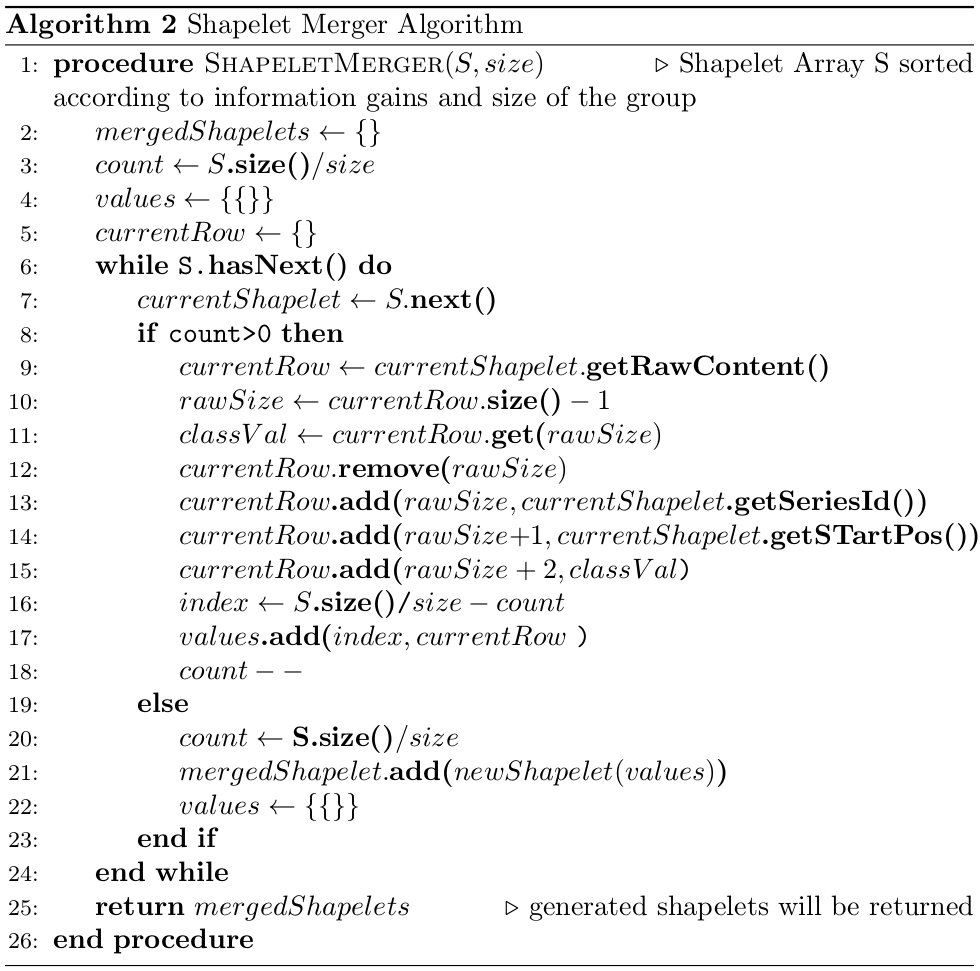
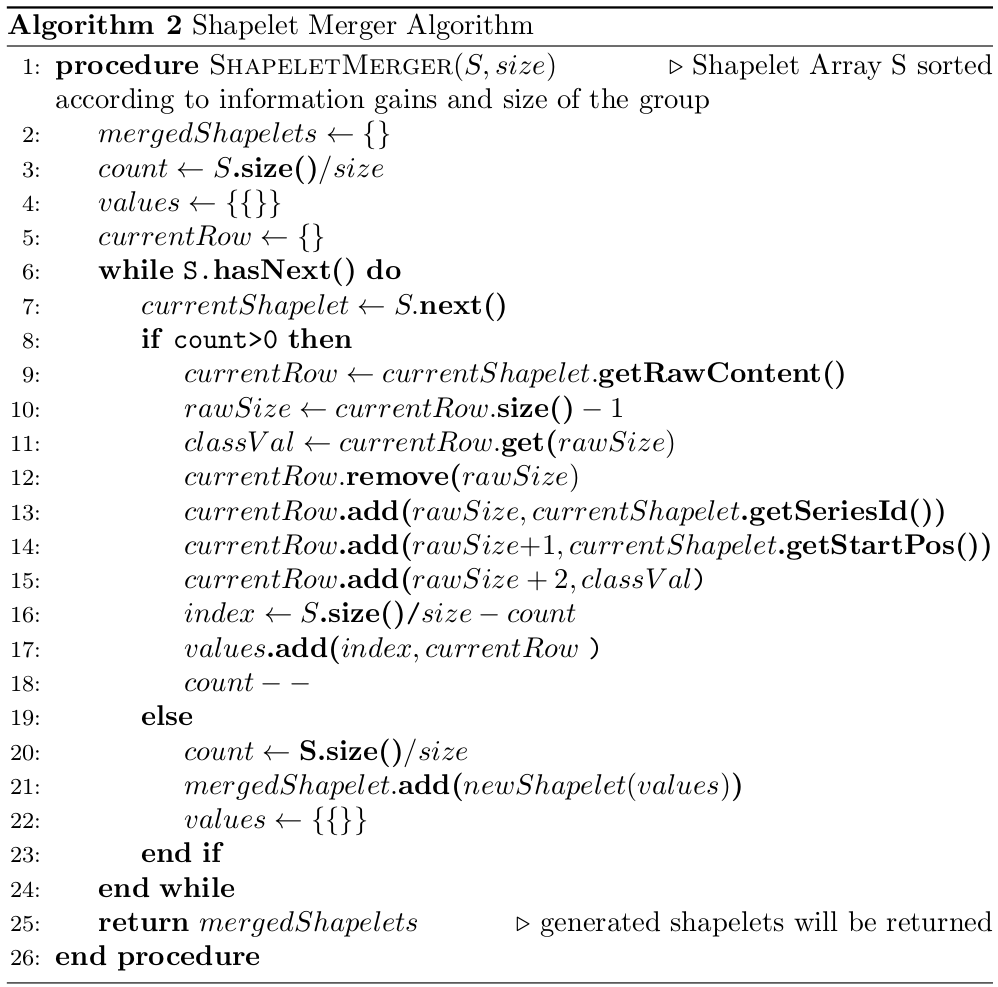
Finalized version

diff --git a/IEEE_SmartData_China_2016/IEEE__Chine_Conf_Paper.tex b/IEEE_SmartData_China_2016/IEEE__Chine_Conf_Paper.tex
@@ -157,7 +157,7 @@ To auto generate queries for Complex Event Processors, we propose the modularize
 
 \textbf{Data Processor} --- Converts the input dataset (e.g., time series data in .txt, .xml, or .csv format) into a generic format used by rest of the modules. We assume that each instance in the given dataset corresponds to an occurrence of a specific event, i.e., each data instance is classified/labeled with the corresponding event. The module then counts the number of events of each type, and their proportions with respect to the total number of events in the entire dataset.
 
-\textbf{Shapelet Generator}	--- This is the core module of the system which uses pattern mining. This module identifies the most appropriate shapelets to represent each event. First, the multivariate time series dataset is mapped to a set of parallel coordinates. Fig.~\ref{fig:tsdata} is an exemplary representation of a multivariate time series with six attributes and six time instances converted to parallel coordinates. Then all the shapelets are extracted from the parallel coordinates while varying the length $l$ of the sliding window. Though the shape of the extracted shapelets depend on the order of the attributes, final outcome of the solution is independent of the order. Length of an identified shapelet is bounded by number of attributes $m$ in the time series (i.e., $1 \leq l \leq m$). Therefore, our technique produces a much lower number of shaplets compared to prior work, where $m$ can be as large as the length of the time series. Moreover, it is not required to apply heuristics or expert knowledge to determine the optimum minimum and maximum length of shapelets. Therefore, our \textit{Shapelet Learner Algorithm} is both computationally and memory efficient.
+\textbf{Shapelet Generator}	--- This is the core module of the system which uses pattern mining. This module identifies the most appropriate shapelets to represent each event. First, the multivariate time series dataset is mapped to a set of parallel coordinates. Fig.~\ref{fig:tsdata} is an exemplary representation of a multivariate time series with six attributes and five time instances converted to parallel coordinates. Then all the shapelets are extracted from the parallel coordinates while varying the length $l$ of the sliding window. Though the shape of the extracted shapelets depend on the order of the attributes, final outcome of the solution is independent of the order. Length of an identified shapelet is bounded by number of attributes $m$ in the time series (i.e., $1 \leq l \leq m$). Therefore, our technique produces a much lower number of shaplets compared to prior work, where $m$ can be as large as the length of the time series. Moreover, it is not required to apply heuristics or expert knowledge to determine the optimum minimum and maximum length of shapelets. Therefore, our \textit{Shapelet Learner Algorithm} is both computationally and memory efficient.
 
 Once all shapelets are extracted, the next step is to identify a subset of the shapelets that are representative of patterns in the parallel coordinates. For this, we use information gain to quantify the extent to which a selected shapelet is similar to a given line on parallel coordinates. For example, Fig.~\ref{fig:tsshapes} shows two shaplets, one with attributes 1 and 2 (shapelet $S_1$) and another with attributes 1, 2, and 3 (shapelet $S_2$). We slide both $S_1$ and $S_2$ across the line/row with $t$ = 5000, and find the minimum distance between the shapelet and line. For example, $S_1$ has a relatively lower distance between the attributes 1-2 and 3-4, whereas $S_2$ has a relatively lower distance between attributes 1-3 and 4-6. This is estimated using the \textit{SubsequenceDist()} function defined in Sec. 2.1. The same process is applied to all other time instances and shapelets. This results in a matrix of minimum distance values for each (shapelet, time instance) pair. We then find the Optimal Splitting Point (OSP) \cite{IEEEexample:TimeSeriesShapelets} for each row of minimum distance values, to find the maximum information gain for each shapelet. The shapelets are then ranked based on the descending order of its information gain. We then use \textit{Shapelet Merger Algorithm} to group shapelets within the ranked list with respect to their information gain. Because the shapelets with similar information gains produce similar insights, groups created using \textit{Shapelet Merger Algorithm} allows us to cluster the similar informative shapelets together. Finally, \textit{Important Shapelet Extraction Algorithm} is used to identify the most suitable shapelets to represent each event type, which would result in an output similar to Fig.~\ref{fig:tswin}.
 
@@ -192,14 +192,14 @@ We first transform the multivariate time series dataset into parallel coordinate
 
 
 \subsection{Phase one: Shapelet Learner}
-The \textit{Shapelet Learner} extracts all the shapelets from the obtained parallel coordinates. We set the default minimum length ($l_{min}$) of a shapelet as two, while the maximum ($l_{max}$) is set to the number of attributes $m$ (i.e., $2 \leq l \leq m$). However, a user may override these values. Afterwards, Algorithm 1 of the Shapelet Generator module extracts all possible shapelets while varying the shapelet length. First, the shapelet list is initialized to store the extracted shapelets (line 2). Then shapelets are extracted by going through each row $r$ in the Dataset \textbf{D}. The outer loop increments the length of a shapelet $l$ up to $l_{max}$, while the inner loop increments $start$ to scans through each $r$. The inner-most loop (line 13 -1 ) extracts all attributes between $l_{min}$ to $l$ for a given staring point. Then we convert each shapelet’s content to standard normal using \textit{zNorm()} function to prevent any biases to specific attributes. Moreover, in line 19 we also store the raw values of shapelets, as they are later required while generating queries. 
+The \textit{Shapelet Learner} extracts all the shapelets from the obtained parallel coordinates. We set the default minimum length ($l_{min}$) of a shapelet as two, while the maximum ($l_{max}$) is set to the number of attributes $m$ (i.e., $2 \leq l \leq m$). However, a user may override these values. Afterwards, Algorithm 1 of the Shapelet Generator module extracts all possible shapelets while varying the shapelet length. First, the shapelet list is initialized to store the extracted shapelets (line 2). Then shapelets are extracted by going through each row $r$ in the Dataset \textbf{D}. The outer loop increments the length of a shapelet $l$ up to $l_{max}$, while the inner loop increments $start$ to scans through each $r$. The inner-most loop (line 13-16) extracts all attributes between $l_{min}$ to $l$ for a given staring point. Then we convert each shapelet’s content to standard normal using \textit{zNorm()} function to prevent any biases to specific attributes. Moreover, in line 19 we also store the raw values of shapelets, as they are later required while generating queries. 
 
 We also calculate and save the information gain of each shapelets using \textit{infoGain()} function (line 20). First, the \textit{SubsequenceDist()} function is used to find the minimum distance between the row and the shapelet by sliding the shapelet across the row, one attribute at a time (see Fig. \ref{fig:tsshapes}). By repeating the function, the minimum distance per each row is found and saved in an array. Then by sequeuntially splitting the array we calculate the information gain using Eq. 2. Finally, for each shapelet we get the maximum information gain and the corresponding split point, which would be the Optimum Splitting Point of the array. In line 21, each shapelet and its metadata are then added to the \textit{shapelets} list, which is later returned by the algorithm.
 
 \subsection{Phase Two - Shapelet Extraction}
 All the extracted shapelets are first sorted according to their information gain. Then these shapelets are divide into a set of groups and then merged using Algorithm 2. Algorithm take the set of shapelets $S$ and number of shapelets per group ($group_{size}$) as the input. 
 %$group_{size}$ is proportional to the total number of shapelets. 
-$group_{size}$ is selected based on the cluster pruning technique in which we set the number of groups to the square root of the total number of identified shapelets. If desired, the user may also define the $group_{size}$. Then in line 12 to 15 the grouped shapelets are updated by adding their series ID (i.e., raw number), starting positions (i.e., starting attribute index), lengths (i.e., number of attributes), and class value (i.e., event type). Finally, the algorithm return all the merged shapelets (line 25).
+$group_{size}$ is selected based on the cluster pruning technique in which we set the number of groups to the square root of the total number of identified shapelets. If desired, the user may also define the $group_{size}$. Then in line 12 to 15 the grouped shapelets are updated by adding their series ID (i.e., raw number), starting positions (i.e., starting attribute index), and class value (i.e., event type). Finally, the algorithm return all the merged shapelets (line 25).
 
 \begin{figure}
 \includegraphics[width=0.5\textwidth]{Architecture.png}

diff --git a/IEEE_SmartData_China_2016/PseudoCodes.tex b/IEEE_SmartData_China_2016/PseudoCodes.tex
@@ -53,7 +53,7 @@
      \State $classVal \gets currentRow.\textbf{get(}rawSize\textbf{})$
      \State $ currentRow.\textbf{remove(}rawSize\textbf{})$
      \State $currentRow$\textbf{.add(}$rawSize,currentShapelet$\textbf{.getSeriesId())}
-     \State $currentRow$\textbf{.add(}$rawSize+1,currentShapelet$\textbf{.getSTartPos())}
+     \State $currentRow$\textbf{.add(}$rawSize+1,currentShapelet$\textbf{.getStartPos())}
      \State $currentRow$\textbf{.add(}$rawSize+2,classVal$\texttt{)}
      \State $index \gets S$\textbf{.size()}\texttt{/}$size - count$
      \State $values$\textbf{.add(}$index,currentRow$ \texttt{)}
